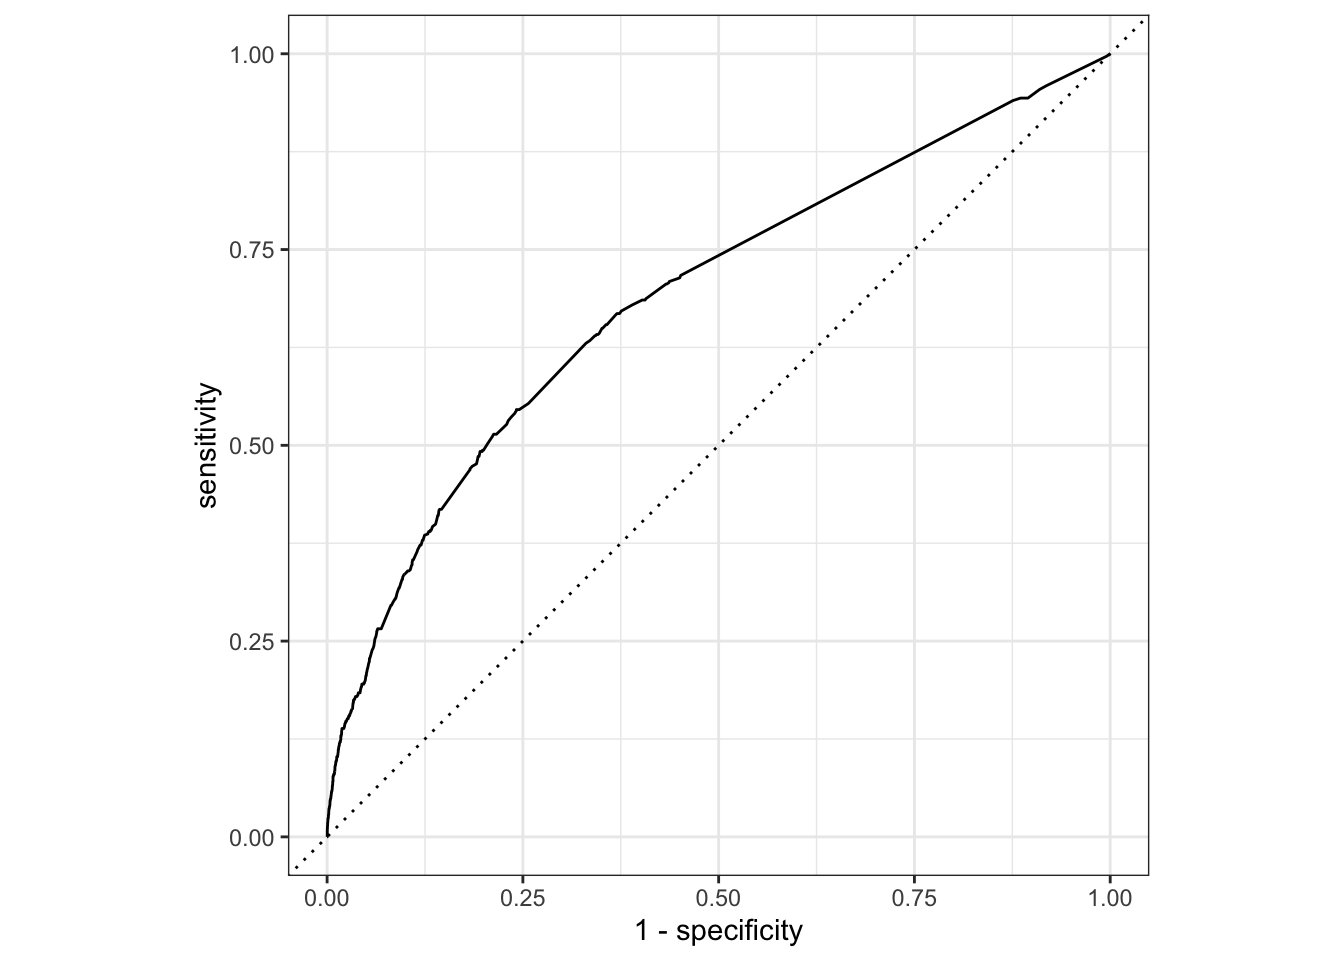
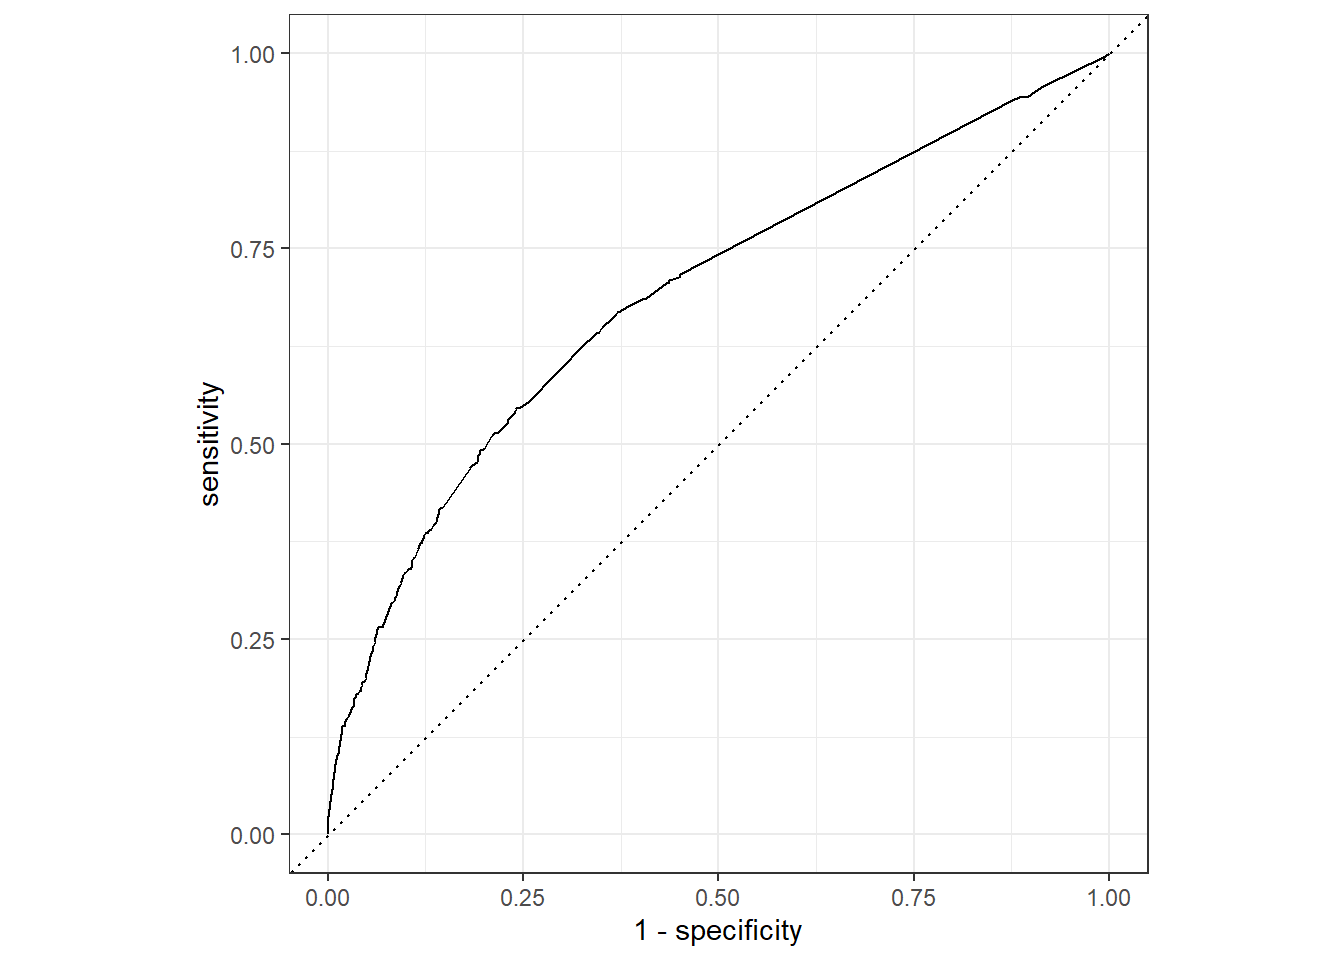
Update docs

diff --git a/docs/models/logistic.html b/docs/models/logistic.html
@@ -218,13 +218,18 @@ pre > code.sourceCode > span > a:first-child::before { text-decoration: underlin
 </header>
 
 
-<p>Logistic regression is a statistical model that…</p>
+<p>Logistic regression is a statistical modeling approach used to estimate the relationship between one or more predictors and a binary outcome. In this analysis, the outcome of interest is whether an adolescent reported carrying a weapon at school. Because the outcome has two possible categories, logistic regression provides a natural framework for estimating how demographic, behavioral, social, and other measured characteristics are associated with the probability of weapon-carrying behavior.</p>
+<p>Unlike ordinary linear regression, logistic regression does not model the outcome directly as a continuous value. Instead, it models the log-odds of the outcome and then converts those log-odds into a predicted probability between 0 and 1. This makes it possible to examine both the direction and magnitude of the association between each predictor and the likelihood of weapon carrying while accounting for the other predictors included in the model.</p>
+<p>The analysis below uses the 2023 Youth Risk Behavior Survey (YRBS) analytic data and the <code>tidymodels</code> framework in R. The workflow includes data preprocessing, model specification and fitting, coefficient estimation, model evaluation, and visualization of the resulting odds ratios.</p>
 <section id="model-overview" class="level3">
 <h3 class="anchored" data-anchor-id="model-overview">Model Overview</h3>
-<p>Logistic regression is used when the dependent variable is binary (0/1, Yes/No, True/False). The model estimates the probability of the dependent variable being 1 given the independent variables.</p>
+<p>Logistic regression is appropriate when the dependent variable is binary, such as 0/1, Yes/No, or True/False. Here, <code>WeaponCarryingSchool</code> is treated as the binary response variable. The model estimates the probability that the outcome is in the event category given a set of predictor variables.</p>
+<p>Each regression coefficient represents the estimated change in the log-odds of the outcome associated with a one-unit change in the predictor, holding the other variables constant. Because log-odds are difficult to interpret directly, the coefficients are exponentiated later in the analysis and reported as <strong>odds ratios</strong>. An odds ratio greater than 1 indicates higher estimated odds of weapon carrying, whereas an odds ratio less than 1 indicates lower estimated odds. An odds ratio close to 1 suggests little association with the outcome after accounting for the remaining predictors.</p>
+<p>It is important to interpret these estimates as associations rather than causal effects. The YRBS data are observational, and the model cannot establish that any predictor causes an adolescent to carry a weapon at school.</p>
 </section>
 <section id="implementation" class="level3">
 <h3 class="anchored" data-anchor-id="implementation">Implementation</h3>
+<p>The analysis begins by loading the packages needed for data manipulation, model construction, evaluation, and file-path management. <code>tidymodels</code> supplies the modeling workflow, while <code>tidyverse</code> supports data manipulation and visualization. The dissertation data package and <code>here</code> are also loaded so that the analysis can access the prepared study data in a reproducible way.</p>
 <div class="cell">
 <div class="code-copy-outer-scaffold"><div class="sourceCode cell-code" id="cb1"><pre class="sourceCode r code-with-copy"><code class="sourceCode r"><span id="cb1-1"><a href="#cb1-1" aria-hidden="true" tabindex="-1"></a><span class="fu">library</span>(tidymodels)</span>
 <span id="cb1-2"><a href="#cb1-2" aria-hidden="true" tabindex="-1"></a><span class="fu">library</span>(tidyverse)</span>
@@ -236,6 +241,8 @@ pre > code.sourceCode > span > a:first-child::before { text-decoration: underlin
 </section>
 <section id="load-the-data" class="level3">
 <h3 class="anchored" data-anchor-id="load-the-data">Load the data</h3>
+<p>The analysis uses previously prepared data objects rather than repeating the full data-cleaning process here. The full analytic dataset is loaded along with a training set, a test set, and resampling folds. Separating these objects allows the modeling process to distinguish between data used to estimate the model and data reserved for evaluation or resampling.</p>
+<p>The training set is used below to fit the logistic regression model. The test set can be used for a more independent assessment of predictive performance, while the fold object supports cross-validation if resampling is incorporated into later model development.</p>
 <div class="cell">
 <div class="code-copy-outer-scaffold"><div class="sourceCode cell-code" id="cb2"><pre class="sourceCode r code-with-copy"><code class="sourceCode r"><span id="cb2-1"><a href="#cb2-1" aria-hidden="true" tabindex="-1"></a>analysis_data <span class="ot">&lt;-</span> <span class="fu">readRDS</span>(<span class="fu">here</span>(<span class="st">"models"</span>, <span class="st">"data"</span>, <span class="st">"analysis_data.rds"</span>))</span>
 <span id="cb2-2"><a href="#cb2-2" aria-hidden="true" tabindex="-1"></a>analysis_train <span class="ot">&lt;-</span> <span class="fu">readRDS</span>(<span class="fu">here</span>(<span class="st">"models"</span>, <span class="st">"data"</span>, <span class="st">"analysis_train.rds"</span>))</span>
@@ -245,6 +252,8 @@ pre > code.sourceCode > span > a:first-child::before { text-decoration: underlin
 </section>
 <section id="recipe" class="level3">
 <h3 class="anchored" data-anchor-id="recipe">Recipe</h3>
+<p>A <code>recipe</code> defines the preprocessing steps that will be applied before the model is fit. This is useful because it keeps data preparation tied directly to the modeling workflow and ensures that the same transformations can be reproduced consistently.</p>
+<p>The recipe specifies <code>WeaponCarryingSchool</code> as the outcome and includes the remaining variables as predictors. Several preprocessing steps are then applied. Missing categorical values are imputed using the most common category, while missing numeric values are replaced with the corresponding mean. Predictors with zero variance are removed because they contain no information that can help distinguish between outcome categories. Finally, highly correlated numeric predictors are screened using a correlation threshold of 0.70. Removing one variable from strongly correlated pairs can reduce redundancy and improve the stability and interpretability of the fitted coefficients.</p>
 <div class="cell">
 <div class="code-copy-outer-scaffold"><div class="sourceCode cell-code" id="cb3"><pre class="sourceCode r code-with-copy"><code class="sourceCode r"><span id="cb3-1"><a href="#cb3-1" aria-hidden="true" tabindex="-1"></a>weapon_carry_recipe <span class="ot">&lt;-</span> </span>
 <span id="cb3-2"><a href="#cb3-2" aria-hidden="true" tabindex="-1"></a>  <span class="fu">recipe</span>(<span class="at">formula =</span> WeaponCarryingSchool <span class="sc">~</span> ., <span class="at">data =</span> analysis_data) <span class="sc">|&gt;</span></span>
@@ -295,6 +304,8 @@ predictor: 10</code></pre>
 </section>
 <section id="bake" class="level3">
 <h3 class="anchored" data-anchor-id="bake">Bake</h3>
+<p>After defining the recipe, it is prepared and then applied to the analytic data. In <code>tidymodels</code>, preparing a recipe estimates any quantities needed for preprocessing, such as means for imputation or correlations among predictors. Baking then applies those learned preprocessing steps to a dataset.</p>
+<p>The <code>glimpse()</code> output provides a quick check of the resulting variables and their data types. This step is particularly useful for confirming that the recipe behaves as expected before the model is fit.</p>
 <div class="cell">
 <div class="code-copy-outer-scaffold"><div class="sourceCode cell-code" id="cb16"><pre class="sourceCode r code-with-copy"><code class="sourceCode r"><span id="cb16-1"><a href="#cb16-1" aria-hidden="true" tabindex="-1"></a>rec <span class="ot">&lt;-</span> weapon_carry_recipe <span class="sc">%&gt;%</span> </span>
 <span id="cb16-2"><a href="#cb16-2" aria-hidden="true" tabindex="-1"></a>  <span class="fu">prep</span>() <span class="sc">%&gt;%</span> </span>
@@ -318,6 +329,8 @@ $ WeaponCarryingSchool     &lt;fct&gt; 0, 0, 0, 0, 0, 0, 0, 0, 0, 0, 0, 0, 0, 0,
 </section>
 <section id="model-specification" class="level3">
 <h3 class="anchored" data-anchor-id="model-specification">Model Specification</h3>
+<p>The model specification identifies the type of statistical model to be estimated. <code>logistic_reg()</code> defines a logistic regression model, and the classification mode indicates that the objective is to predict membership in one of two outcome categories. The <code>glm</code> engine uses R’s generalized linear modeling framework to estimate the model.</p>
+<p>This is a standard, interpretable logistic regression rather than a heavily tuned machine-learning model. Its primary advantage in this context is that the estimated coefficients can be converted directly to odds ratios and used to describe the adjusted association between each predictor and weapon carrying at school.</p>
 <div class="cell">
 <div class="code-copy-outer-scaffold"><div class="sourceCode cell-code" id="cb18"><pre class="sourceCode r code-with-copy"><code class="sourceCode r"><span id="cb18-1"><a href="#cb18-1" aria-hidden="true" tabindex="-1"></a>weapon_carry_spec <span class="ot">&lt;-</span> </span>
 <span id="cb18-2"><a href="#cb18-2" aria-hidden="true" tabindex="-1"></a>  <span class="fu">logistic_reg</span>() <span class="sc">%&gt;%</span> </span>
@@ -334,6 +347,7 @@ Computational engine: glm </code></pre>
 </section>
 <section id="workflow" class="level3">
 <h3 class="anchored" data-anchor-id="workflow">Workflow</h3>
+<p>The workflow combines the preprocessing recipe and logistic regression specification into a single modeling object. Keeping these steps together helps make the analysis reproducible and reduces the risk that preprocessing will be applied differently at different stages of the modeling process.</p>
 <div class="cell">
 <div class="code-copy-outer-scaffold"><div class="sourceCode cell-code" id="cb20"><pre class="sourceCode r code-with-copy"><code class="sourceCode r"><span id="cb20-1"><a href="#cb20-1" aria-hidden="true" tabindex="-1"></a>weapon_carry_workflow <span class="ot">&lt;-</span> <span class="fu">workflow</span>() <span class="sc">%&gt;%</span></span>
 <span id="cb20-2"><a href="#cb20-2" aria-hidden="true" tabindex="-1"></a>  <span class="fu">add_recipe</span>(weapon_carry_recipe) <span class="sc">%&gt;%</span></span>
@@ -360,6 +374,7 @@ Logistic Regression Model Specification (classification)
 Computational engine: glm </code></pre>
 </div>
 </div>
+<p>The model is then fit using the training data. During fitting, the preprocessing steps defined in the recipe are estimated from the training set and applied before the logistic regression coefficients are calculated. The fitted workflow therefore contains both the trained preprocessing procedure and the estimated regression model.</p>
 <div class="cell">
 <div class="code-copy-outer-scaffold"><div class="sourceCode cell-code" id="cb22"><pre class="sourceCode r code-with-copy"><code class="sourceCode r"><span id="cb22-1"><a href="#cb22-1" aria-hidden="true" tabindex="-1"></a>mod_1 <span class="ot">&lt;-</span> </span>
 <span id="cb22-2"><a href="#cb22-2" aria-hidden="true" tabindex="-1"></a>  <span class="fu">fit</span>(weapon_carry_workflow, <span class="at">data =</span> analysis_train) </span>
@@ -401,6 +416,8 @@ Null Deviance:      5238
 Residual Deviance: 4872     AIC: 4894</code></pre>
 </div>
 </div>
+<p>The fitted model coefficients are then converted into a tidy table. Setting <code>exponentiate = TRUE</code> transforms the coefficients from the log-odds scale to <strong>odds ratios</strong>, which are more intuitive to interpret. The output also includes 95% confidence intervals and p-values for the estimated associations.</p>
+<p>For a categorical predictor, an odds ratio compares a particular category with the reference category used by the model. For a numeric predictor, the odds ratio represents the multiplicative change in the odds associated with a one-unit increase in that predictor, unless the variable was transformed beforehand. Confidence intervals provide information about the precision of each estimate. When a 95% confidence interval includes 1, the data are compatible with no adjusted association at the conventional 0.05 significance level.</p>
 <div class="cell">
 <div class="code-copy-outer-scaffold"><div class="sourceCode cell-code" id="cb24"><pre class="sourceCode r code-with-copy"><code class="sourceCode r"><span id="cb24-1"><a href="#cb24-1" aria-hidden="true" tabindex="-1"></a>tidy_model <span class="ot">&lt;-</span> </span>
 <span id="cb24-2"><a href="#cb24-2" aria-hidden="true" tabindex="-1"></a>  mod_1 <span class="sc">|&gt;</span></span>
@@ -430,6 +447,8 @@ Residual Deviance: 4872     AIC: 4894</code></pre>
 </section>
 <section id="model-evaluation" class="level3">
 <h3 class="anchored" data-anchor-id="model-evaluation">Model Evaluation</h3>
+<p>Model evaluation asks a different question from coefficient interpretation. The regression coefficients describe associations between individual predictors and the outcome, while predictive-performance measures assess how effectively the model distinguishes adolescents who reported weapon carrying at school from those who did not.</p>
+<p>The fitted model is first used to generate predictions for the training data. The augmented output includes the observed outcome, the predicted class, and the estimated probability of each outcome category. These probabilities can then be used to evaluate discrimination across different classification thresholds.</p>
 <div class="cell">
 <div class="code-copy-outer-scaffold"><div class="sourceCode cell-code" id="cb26"><pre class="sourceCode r code-with-copy"><code class="sourceCode r"><span id="cb26-1"><a href="#cb26-1" aria-hidden="true" tabindex="-1"></a>weapon_pred <span class="ot">&lt;-</span> </span>
 <span id="cb26-2"><a href="#cb26-2" aria-hidden="true" tabindex="-1"></a>  <span class="fu">augment</span>(mod_1, analysis_train) <span class="sc">|&gt;</span> </span>
@@ -453,6 +472,9 @@ Residual Deviance: 4872     AIC: 4894</code></pre>
 # ℹ 14,686 more rows</code></pre>
 </div>
 </div>
+<p>The receiver operating characteristic (ROC) curve summarizes the model’s ability to rank observations according to their predicted probability of the event. The curve compares sensitivity with the false-positive rate across all possible probability thresholds. A model with little discriminatory ability will produce a curve close to the diagonal reference line, while a model with stronger discrimination will bow farther toward the upper-left corner.</p>
+<p>The corresponding area under the ROC curve, or AUC, can be interpreted as the probability that the model assigns a higher predicted risk to a randomly selected adolescent with the outcome than to a randomly selected adolescent without the outcome. Values closer to 1 indicate stronger discrimination, while a value near 0.5 indicates performance close to chance.</p>
+<p>Because the ROC curve below is calculated on the <strong>training data</strong>, it primarily describes how well the fitted model separates the observations it was trained on. Predictive performance should generally also be evaluated on the held-out test set or through cross-validation to obtain a less optimistic estimate of how the model is likely to perform on new data.</p>
 <div class="cell">
 <div class="code-copy-outer-scaffold"><div class="sourceCode cell-code" id="cb28"><pre class="sourceCode r code-with-copy"><code class="sourceCode r"><span id="cb28-1"><a href="#cb28-1" aria-hidden="true" tabindex="-1"></a>roc_plot_training <span class="ot">&lt;-</span> </span>
 <span id="cb28-2"><a href="#cb28-2" aria-hidden="true" tabindex="-1"></a>  weapon_pred <span class="sc">|&gt;</span> </span>
@@ -471,6 +493,9 @@ Residual Deviance: 4872     AIC: 4894</code></pre>
 </section>
 <section id="visualizations" class="level3">
 <h3 class="anchored" data-anchor-id="visualizations">Visualizations</h3>
+<p>A forest plot provides a compact visual summary of the adjusted odds ratios and their 95% confidence intervals. Each point represents an estimated odds ratio for one predictor, and the horizontal line around the point represents its confidence interval. The vertical dashed line at an odds ratio of 1 represents no association with the outcome.</p>
+<p>Predictors plotted to the right of 1 are associated with higher estimated odds of weapon carrying, whereas predictors plotted to the left of 1 are associated with lower estimated odds. The farther an estimate lies from 1, the larger the estimated association on the odds-ratio scale. Confidence intervals should be considered alongside the point estimates: wide intervals indicate greater uncertainty, and intervals that cross 1 do not clearly distinguish the estimated association from no association at the 95% confidence level.</p>
+<p>The x-axis is displayed on a logarithmic scale. This is appropriate for odds ratios because values below and above 1 are then represented more symmetrically. For example, an odds ratio of 0.5 and an odds ratio of 2 represent effects of comparable magnitude in opposite directions on the log-odds scale.</p>
 <div class="cell">
 <div class="code-copy-outer-scaffold"><div class="sourceCode cell-code" id="cb29"><pre class="sourceCode r code-with-copy"><code class="sourceCode r"><span id="cb29-1"><a href="#cb29-1" aria-hidden="true" tabindex="-1"></a>tidy_model <span class="sc">|&gt;</span> </span>
 <span id="cb29-2"><a href="#cb29-2" aria-hidden="true" tabindex="-1"></a>  <span class="fu">filter</span>(term <span class="sc">!=</span> <span class="st">"(Intercept)"</span>) <span class="sc">|&gt;</span> </span>
@@ -489,6 +514,13 @@ Residual Deviance: 4872     AIC: 4894</code></pre>
 <span id="cb29-15"><a href="#cb29-15" aria-hidden="true" tabindex="-1"></a>    <span class="at">axis.text.y =</span> <span class="fu">element_text</span>(<span class="at">size =</span> <span class="dv">10</span>),</span>
 <span id="cb29-16"><a href="#cb29-16" aria-hidden="true" tabindex="-1"></a>    <span class="at">plot.title =</span> <span class="fu">element_text</span>(<span class="at">hjust =</span> <span class="fl">0.5</span>)</span>
 <span id="cb29-17"><a href="#cb29-17" aria-hidden="true" tabindex="-1"></a>  )</span></code></pre></div><button title="Copy to Clipboard" class="code-copy-button"><i class="bi"></i></button></div>
+<div class="cell-output cell-output-stderr">
+<pre><code>Warning: `geom_errorbarh()` was deprecated in ggplot2 4.0.0.
+ℹ Please use the `orientation` argument of `geom_errorbar()` instead.</code></pre>
+</div>
+<div class="cell-output cell-output-stderr">
+<pre><code>`height` was translated to `width`.</code></pre>
+</div>
 <div class="cell-output-display">
 <div>
 <figure class="figure">
@@ -500,9 +532,18 @@ Residual Deviance: 4872     AIC: 4894</code></pre>
 </section>
 <section id="results-and-interpretation" class="level3">
 <h3 class="anchored" data-anchor-id="results-and-interpretation">Results and Interpretation</h3>
+<p>The fitted logistic regression provides an adjusted estimate for each retained predictor after accounting for the other variables in the model. The most useful way to interpret the output is to consider the <strong>odds ratio, confidence interval, and substantive meaning of the predictor together</strong>, rather than relying on the p-value alone.</p>
+<p>Odds ratios greater than 1 indicate that higher values or particular categories of a predictor are associated with increased odds of reporting weapon carrying at school. Odds ratios below 1 indicate an inverse association. The magnitude of the odds ratio indicates the strength of the estimated relationship. For example, an odds ratio of 2 would correspond to approximately twice the odds of the outcome, whereas an odds ratio of 0.50 would correspond to approximately half the odds, holding the other variables in the model constant.</p>
+<p>The forest plot is particularly useful for identifying which predictors have the largest adjusted associations. Predictors with estimates farthest from 1 may be substantively important, but their confidence intervals should also be examined. A large point estimate accompanied by a very wide confidence interval may reflect substantial uncertainty, potentially because relatively few observations fall into a particular category or because the predictor is strongly related to other variables in the model.</p>
+<p>The model should therefore be interpreted as describing a pattern of <strong>conditional associations</strong> among the measured variables. A predictor that appears important in the model is associated with weapon carrying after adjustment for the other included predictors, but the analysis does not establish a causal mechanism. Unmeasured confounding, measurement error, self-report bias, and the cross-sectional nature of the survey may all influence the observed relationships.</p>
+<p>The ROC curve complements the coefficient analysis by showing how well the collection of predictors functions as a classifier. Strong individual associations do not necessarily imply strong overall predictive accuracy, and a model may discriminate reasonably well even when several individual predictors have modest effects. For that reason, both the inferential results and the model’s predictive performance should be considered when evaluating the analysis.</p>
 </section>
 <section id="key-takeaways" class="level3">
 <h3 class="anchored" data-anchor-id="key-takeaways">Key Takeaways</h3>
+<p>The logistic regression framework allows the relationship between multiple predictors and adolescent weapon carrying at school to be examined simultaneously. The preprocessing recipe addresses missing data, removes predictors that contain no variation, and reduces redundancy among highly correlated numeric variables before model fitting.</p>
+<p>The exponentiated model coefficients are interpreted as adjusted odds ratios. Values above 1 indicate higher odds of weapon carrying and values below 1 indicate lower odds, with 95% confidence intervals communicating the uncertainty around those estimates. The forest plot makes these relationships easier to compare visually and helps distinguish large, precise associations from estimates that are smaller or more uncertain.</p>
+<p>The ROC analysis provides a separate assessment of the model’s ability to distinguish between adolescents who did and did not report weapon carrying at school. Because the ROC curve shown here is based on the training data, it should be viewed as an in-sample assessment. Evaluation with the held-out test data or cross-validation would provide stronger evidence about the model’s performance on new observations.</p>
+<p>Taken together, the analysis is best used to identify and compare factors associated with weapon-carrying behavior and to assess how well those factors collectively discriminate the outcome. The results should not be interpreted as demonstrating that any individual predictor causes weapon carrying.</p>
 
 
 </section>
